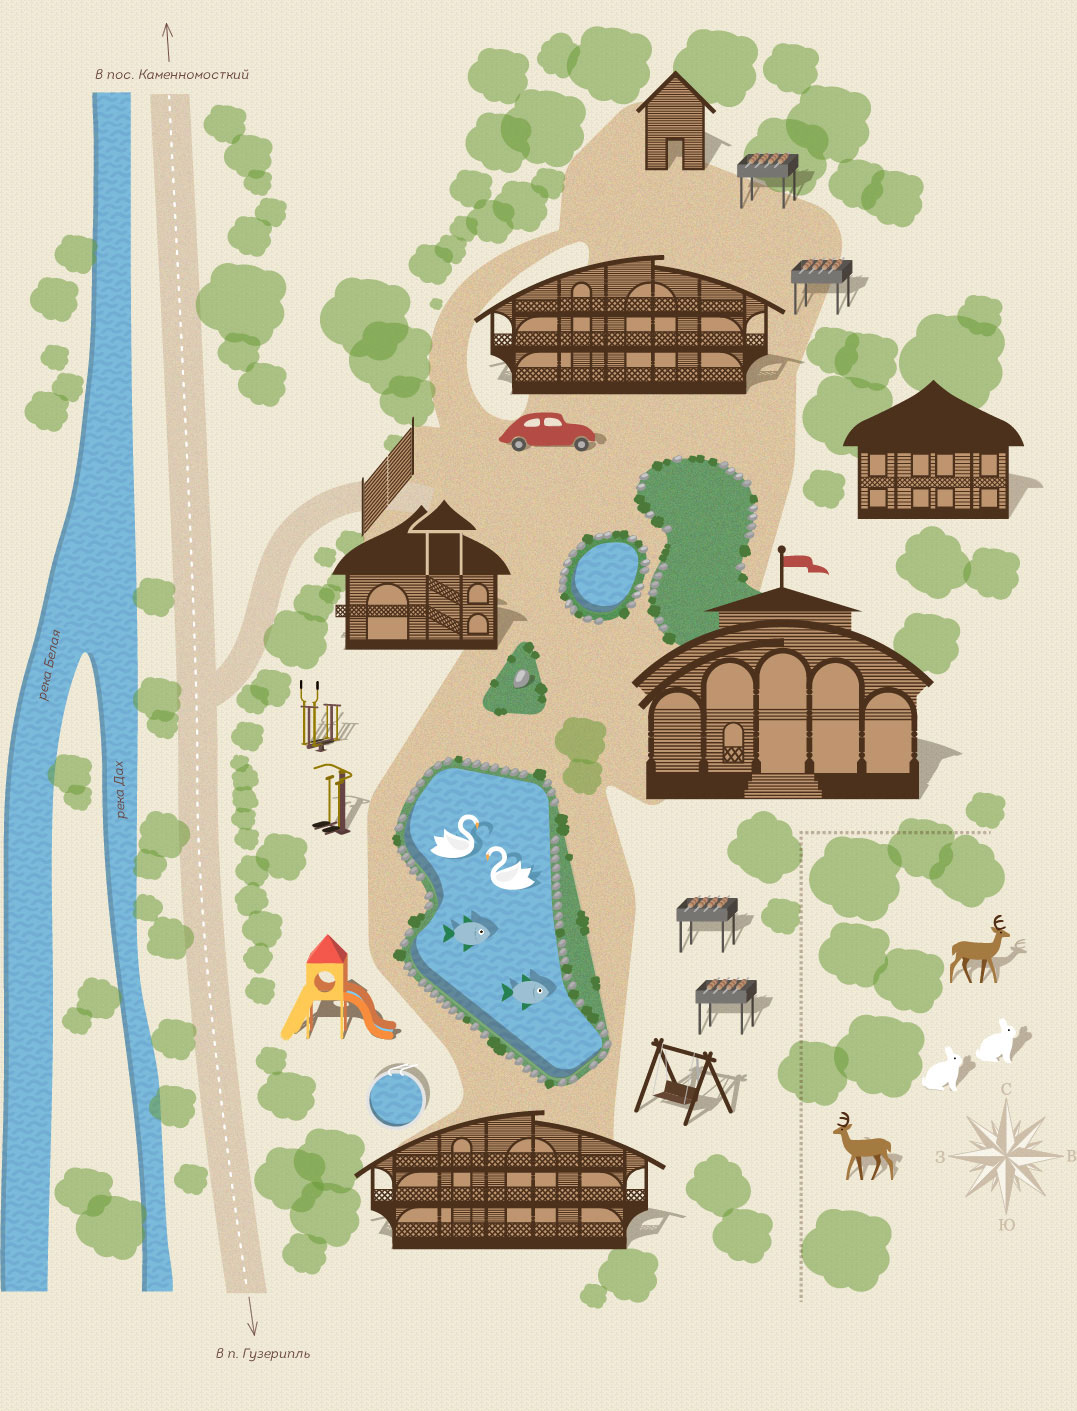
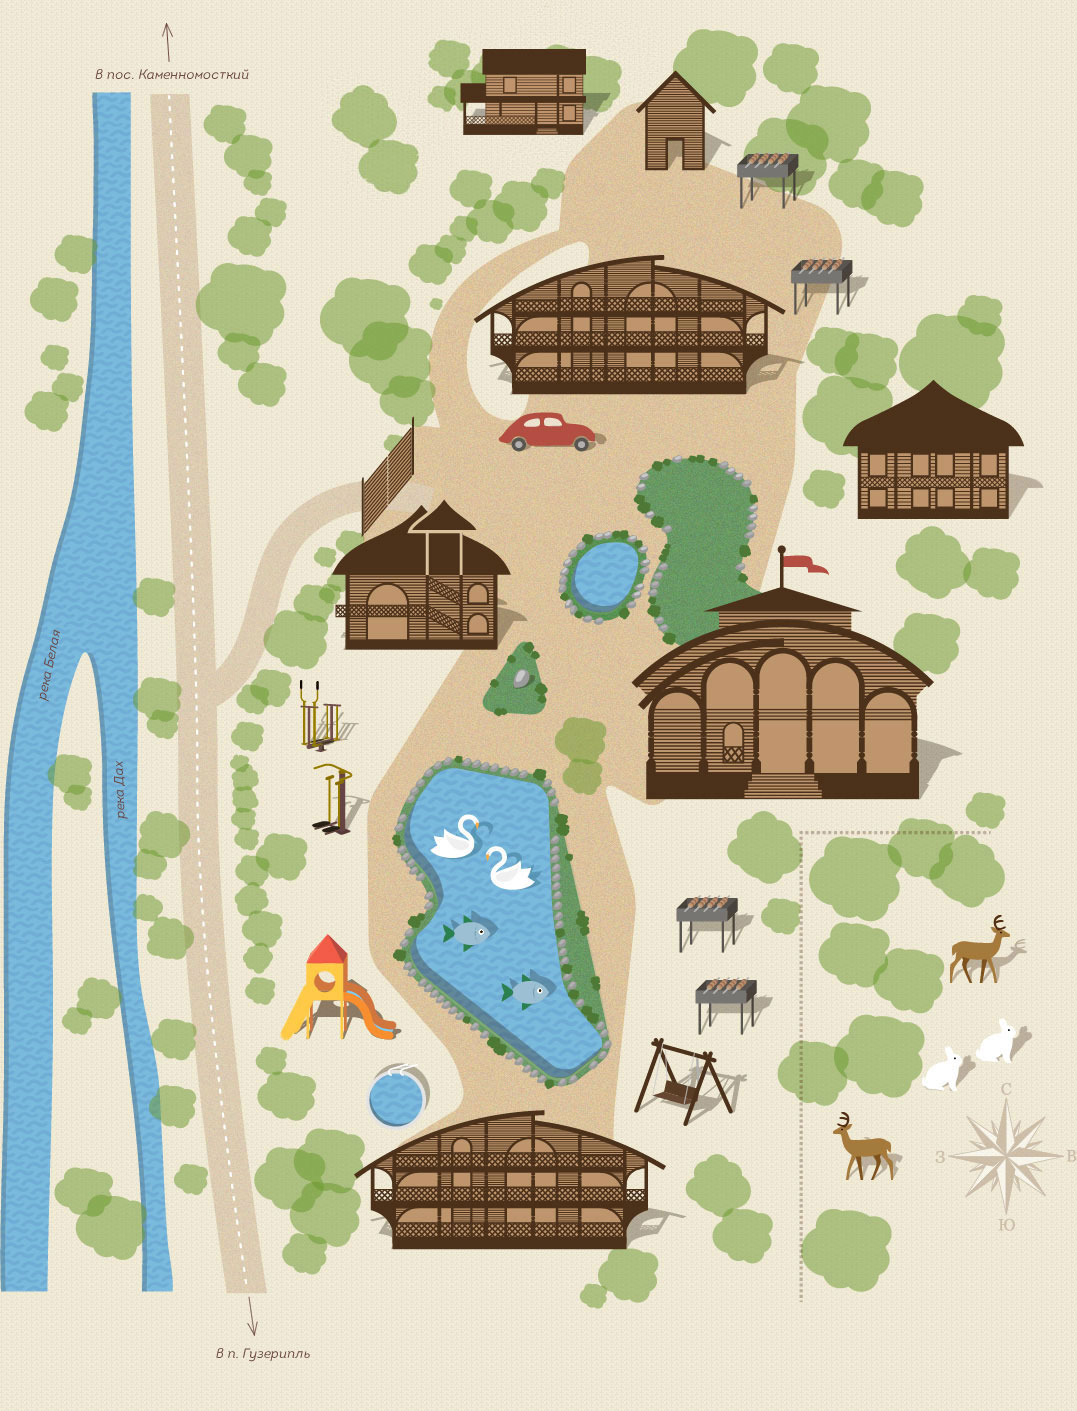
added new type of room - comfort

Changed region(s): [[0.3983, 0.0, 0.6128, 0.1247], [0.3064, 0.0624, 0.3983, 0.1559]]

diff --git a/public/css/main.css b/public/css/main.css
@@ -693,6 +693,7 @@ table.prices-table th {
 .housing-1-spot.spot-link { top: 82.6%; left: 50.2%; }
 .zoo-spot.spot-link { top: 59.1%; left: 74.5%; }
 .serv-spot.spot-link { top: 29%; left: 73%; }
+.serv5-spot.spot-link { top: 7%; left: 34%; }
 /*-------------------------------Section contacts-------------------------------- */
 
 .payment .page-description { font-size: 1em; }

diff --git a/app/views/users_interface/html/about-content.blade.php b/app/views/users_interface/html/about-content.blade.php
@@ -32,6 +32,7 @@
 			<a id="housing-1" class="housing-1-spot spot-link fancybox" href="<?=URL::to('img/photos/complex1.jpg');?>">Корпус №1</a>
 			<a id="zoo" class="zoo-spot spot-link fancybox" href="<?=URL::to('img/photos/zoo.jpg');?>">Зоопарк</a>
 			<a id="serv" class="serv-spot spot-link fancybox" href="<?=URL::to('img/photos/slujebnoe-zdanie.jpg');?>">Корпус №4</a>
+			<a id="serv5" class="serv5-spot spot-link fancybox" href="<?=URL::to('img/photos/comf-3.jpg');?>">Корпус №5</a>
 		</div>
 	</div>
 </section>

diff --git a/app/views/users_interface/includes/header.blade.php b/app/views/users_interface/includes/header.blade.php
@@ -10,7 +10,7 @@
 	</div>
 	<div class="contact-nums">
 		<div class="tel-sign">
-			Бронирование номеров с 8 до 22 часов:
+			Бронирование с 8 до 22 часов:
 		</div>
 		<address>
 			<a class="telephone-link" href="tel:+79184223862">8(918) 422-38-62</a>
